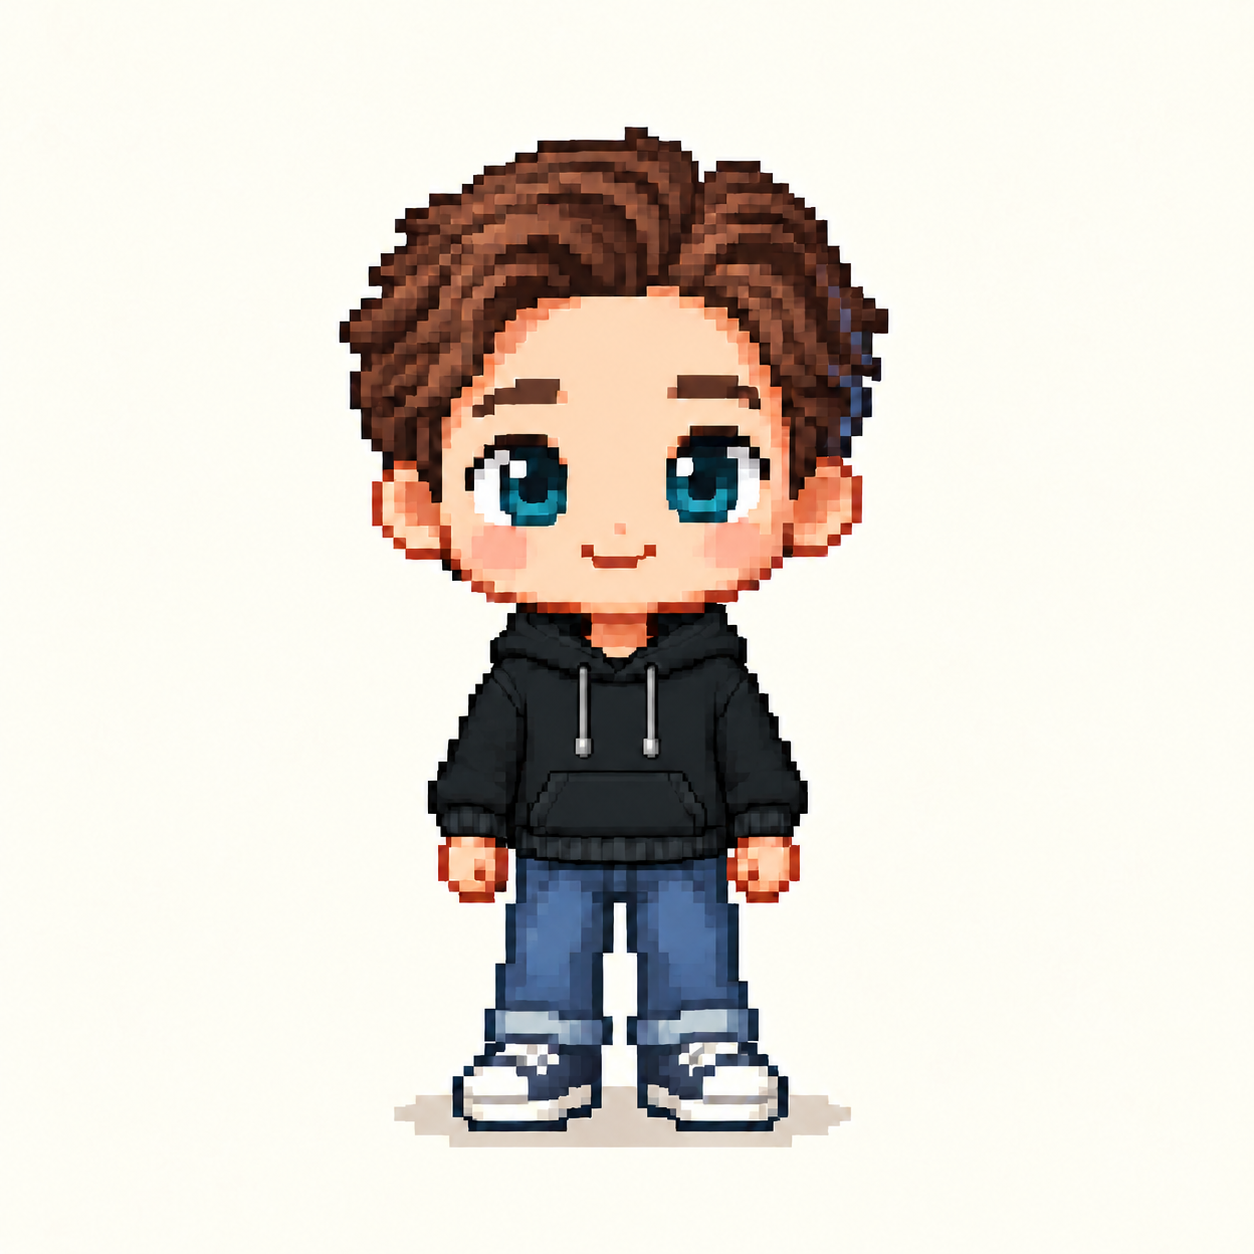
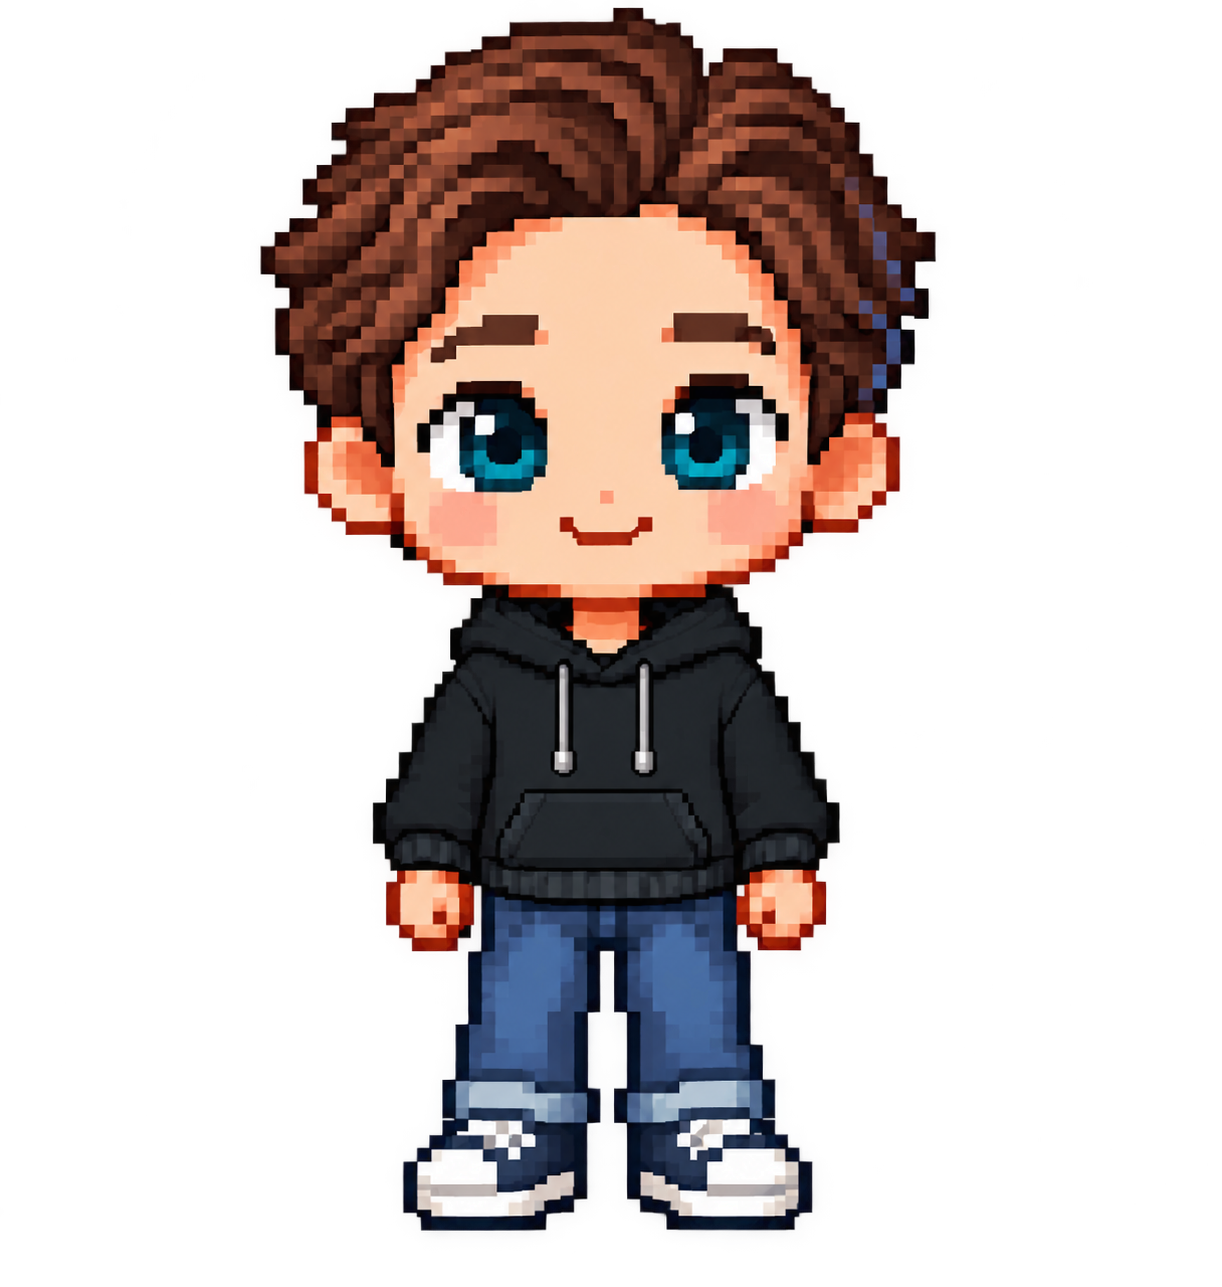
Update artwork and simplify project navigation

Changed region(s): [[0.1866, 0.0, 0.7774, 0.9641]]

diff --git a/components/Portfolio.tsx b/components/Portfolio.tsx
@@ -200,7 +200,7 @@ export function Portfolio() {
       surface.replaceChildren(rotor);
       const gap = innerWidth <= 560 ? 12 : 28;
       const width = innerWidth - gap * 2, height = innerHeight - gap * 2;
-      // Layout is set once. Every moving frame changes only transform.
+      // Set layout once; animate transforms only on synchronized layers.
       Object.assign(surface.style, {left:"0px", top:"0px", width:`${width}px`, height:`${height}px`});
       surface.style.setProperty("--tile-accent", getComputedStyle(source).getPropertyValue("--tile-accent"));
       surface.style.setProperty("--front-width", `${rect.width}px`);
@@ -218,7 +218,6 @@ export function Portfolio() {
         panel.current.style.visibility = "hidden";
       }
       const options: KeyframeAnimationOptions = {duration: target ? 680 : 620, easing:"linear", fill:"forwards"};
-      // Slightly overlap the phase boundaries so neither handoff comes to a stop.
       const movement = surface.animate(target ? [
         {transform:small, offset:0},
         {transform:small, offset:.24, easing:"cubic-bezier(.2,.65,.25,1)"},
@@ -240,7 +239,6 @@ export function Portfolio() {
       try {
         await Promise.all([movement.finished, rotation.finished]);
         setPage(target); opened.current = target;
-        // Keep the final animated face until React has painted the real panel/tile.
         await new Promise<void>(resolve => requestAnimationFrame(() => requestAnimationFrame(() => resolve())));
       } catch {
         setPage(target); opened.current = target;
@@ -275,7 +273,7 @@ export function Portfolio() {
     <div ref={hero} onAnimationEnd={event => { if (event.target === event.currentTarget && event.animationName === "water-reveal") { event.currentTarget.style.animation = "none"; event.currentTarget.style.clipPath = "none"; } }} className={`hero-surface ${revealed ? "is-revealed" : ""}`} inert={!revealed || !!page || busy}>
       <div className="bento-layout">
         <section className="focus-areas" aria-label="What I do">{focusAreas.map(area => <article className="focus-card" key={area.title}><PixelIcon name={`Icon_${area.icon}`}/><h2>{area.title}</h2><p>{area.text}</p></article>)}</section>
-        <div ref={photo} className="photo-tile"><img src="/chibi/phillip.png" alt="Temporary illustrated portrait of Phillip" className="portrait-image"/><div className="photo-caption"><span>PHILLIP</span><span>One pixel at a time.</span></div></div>
+        <div ref={photo} className="photo-tile"><img src="/chibi/phillip.png" alt="Pixel-art Phillip wearing a black hoodie" className="portrait-image"/><div className="photo-caption"><span>PHILLIP</span><span>One pixel at a time.</span></div></div>
         <nav className="portal-nav" aria-label="Explore my portfolio">{tabs.map((tab)=><button key={tab.id} disabled={busy} onClick={e=>{history.pushState(null,"",`#${tab.id}`);void transition(tab.id,e.currentTarget);}} className={`portal-button tile-${tab.id}`}>{tab.icon ? <PixelIcon name={tab.icon}/> : <span className="portal-glyph">{tab.glyph}</span>}<span className="portal-text"><strong>{tab.label}</strong><small>{tab.detail}</small></span></button>)}
         <div className={`portal-button tile-contact contact-card ${contactOpen ? "contact-open" : ""}`} onKeyDown={e=>{if(e.key==="Escape") {setContactOpen(false);e.currentTarget.querySelector("button")?.focus();}}}>
           <button className="contact-toggle" aria-expanded={contactOpen} aria-controls="contact-options" onClick={()=>setContactOpen(v=>!v)}><span className="contact-heading"><PixelIcon name="Icon_Contact"/><span className="portal-text"><strong>Contact</strong><small>Let’s connect</small></span></span></button>
@@ -285,9 +283,9 @@ export function Portfolio() {
     </div>
     <div ref={anchor} className={`character-anchor ${page ? "character-hidden" : ""}`}><Character key={introRun} forceMotion={forceMotion} ready={revealed} onSit={reveal}/></div>
     </div>
-    {revealed && !page && <Workstation animated={forceMotion && !busy}/> }
-    {revealed && !page && !busy && <div className="motion-controls"><button onClick={() => setForceMotion(v => !v)} aria-pressed={forceMotion}>Tile animations: {forceMotion ? "on" : "off"}</button><button onClick={replay}>Replay intro ↺</button></div>}
-    {!revealed && !page && !busy && <button className="skip-intro" onClick={reveal}>Skip intro ↗</button>}
+    {revealed && !page && <Workstation/> }
+    {revealed && !page && !busy && <div className="motion-controls"><button onClick={() => setForceMotion(v => !v)} aria-pressed={forceMotion}>Tile animations: {forceMotion ? "on" : "off"}</button><button onClick={replay}>Replay intro</button></div>}
+    {!revealed && !page && !busy && <button className="skip-intro" onClick={reveal}>Skip intro</button>}
     <div className="transition-surface" ref={overlay} aria-hidden="true" inert/>
     {page && <div ref={panel} className="destination" role="dialog" aria-modal="true" aria-label={tabs.find(t=>t.id===page)?.label} tabIndex={-1} onKeyDown={e=>{if(e.key==="Escape")close();
       if(e.key==="Tab") {

diff --git a/app/globals.css b/app/globals.css
@@ -334,7 +334,6 @@ h1,h2,h3,h4,.portal-text strong,.flip-back{font-family:var(--font-title);font-we
 .transition-surface .tile-icon,.transition-surface img{animation:none!important}
 .motion-enabled .topic-content.animate__animated{animation-duration:160ms!important}
 
-/* Transform-only transition layers: no resizing or glass sampling while moving. */
 .transition-surface{will-change:transform;transform-origin:0 0;transform-style:preserve-3d;perspective:1400px}
 .flip-rotor{position:absolute;inset:0;transform-style:preserve-3d;transform-origin:center;will-change:transform}
 .transition-surface .flip-front{width:var(--front-width)!important;height:var(--front-height)!important;transform:scale(var(--front-scale-x),var(--front-scale-y))!important;transform-origin:0 0;backface-visibility:hidden}
@@ -342,3 +341,9 @@ h1,h2,h3,h4,.portal-text strong,.flip-back{font-family:var(--font-title);font-we
 .transition-surface,.transition-surface *{backdrop-filter:none!important;-webkit-backdrop-filter:none!important;filter:none!important;animation:none!important;transition:none!important;box-shadow:none!important}
 .transition-surface .closing-snapshot{background:linear-gradient(140deg,#34364d,#243847);border-radius:24px}
 .motion-enabled .topic-content.animate__animated{animation:none!important}
+
+/* Static supplied artwork and category labels, retaining the existing grid. */
+.workstation>img{display:block;width:100%;height:auto;image-rendering:pixelated}
+.photo-tile{background:var(--glass-fill);backdrop-filter:blur(24px);-webkit-backdrop-filter:blur(24px)}
+.portrait-image{object-fit:contain;padding:24px 12px 65px}
+.project-category{display:inline-block;margin:24px 0 0;padding:5px 10px;border:1px solid #a9cfff40;border-radius:8px;color:#b8d9ff!important;font-size:12px;letter-spacing:.04em}

diff --git a/components/Workstation.tsx b/components/Workstation.tsx
@@ -1,19 +1,3 @@
-"use client";
-import { useEffect, useRef, useState } from "react";
-import { workstationFrames as frames, workstationSize } from "@/data/workstationFrames";
-const width = Math.max(...frames.map(f=>f[2]));
-const height = Math.max(...frames.map(f=>f[3]));
-export function Workstation({animated}: {animated: boolean}) {
-  const [frame,setFrame]=useState(0);
-  const holder=useRef<HTMLElement>(null);
-  useEffect(()=>{
-    if(!animated) {setFrame(0);return;}
-    let visible=true;
-    const observer=new IntersectionObserver(([entry])=>{visible=entry.isIntersecting;});
-    if(holder.current) observer.observe(holder.current);
-    const timer=window.setInterval(()=>{if(visible && !document.hidden) setFrame(f=>(f+1)%frames.length);},280);
-    return ()=>{window.clearInterval(timer);observer.disconnect();};
-  },[animated]);
-  const f=frames[frame];
-  return <figure ref={holder} className="workstation" aria-label="Animated pixel-art workstation with three monitors"><svg viewBox={`0 0 ${width} ${height}`} role="img" aria-label="Linux, Windows and Omarchy workstation"><svg x={(width-f[2])/2} y={height-f[3]} width={f[2]} height={f[3]} viewBox={f.join(" ")} overflow="hidden"><image href="/pixel/workstation-loop.png" width={workstationSize[0]} height={workstationSize[1]}/></svg></svg></figure>;
+export function Workstation() {
+  return <figure className="workstation"><img src="/pixel/workstation.png" width={1536} height={1024} loading="lazy" decoding="async" alt="Pixel-art workstation with three monitors, a white desk and a black chair"/></figure>;
 }

diff --git a/data/site.ts b/data/site.ts
@@ -26,6 +26,7 @@ export const site = {
     {
       number: "01",
       title: "Portfolio Playground",
+      category: "Development",
       description:
         "A personal space where modern UI meets small pixel-art details, playful motion and a strong responsive layout.",
       tags: ["Next.js", "TypeScript", "Tailwind"],
@@ -35,6 +36,7 @@ export const site = {
     {
       number: "02",
       title: "omachi-pet",
+      category: "Playground",
       description:
         "Explore the source code and project documentation on GitHub.",
       tags: ["GitHub"],
@@ -44,6 +46,7 @@ export const site = {
     {
       number: "03",
       title: "Experiment slot",
+      category: "Playground",
       description:
         "A place for something fun: a small app, animation experiment, game-like interaction or anything that shows your personality.",
       tags: ["Creative Dev", "Web"],

diff --git a/components/Projects.tsx b/components/Projects.tsx
@@ -48,7 +48,8 @@ export function Projects() {
                       {project.status}
                     </span>
                   </div>
-                  <h3 className="mt-7 text-3xl font-semibold tracking-[-0.035em] text-white sm:text-4xl">
+                  <p className="project-category">{project.category}</p>
+                  <h3 className="mt-3 text-3xl font-semibold tracking-[-0.035em] text-white sm:text-4xl">
                     {project.title}
                   </h3>
                   <p className="mt-4 max-w-xl leading-7 text-white/48">{project.description}</p>

diff --git a/README.md b/README.md
@@ -88,6 +88,6 @@ Both original CV PDFs are now bundled in `public/cv`, with working English and G
 ## Continuous transition timing
 Opening uses one 660ms timeline (200ms flip, 460ms expansion); closing uses 620ms (420ms shrinking, 200ms flip). The phases share a boundary with no delay. The final content entrance lasts 160ms. GitHub now points to lisboaphe and omachi-pet is linked from Projects. Its detailed description awaits README content.
 
-## Transform-based transition update
+## Static transparent artwork
 
-The tile overlay now sets dimensions once and animates only transforms on two synchronized layers. Rotation and scaling overlap at the phase boundaries; all blur, filters and nested animation are disabled on the moving copy. Content remains covered until React has painted the destination. Opening is 680ms and closing is 620ms. Current layout is unchanged. Both email links use lisboaphe@gmail.com. Project links say “Open project” without an arrow. TypeScript and transition logic checks pass; the latest production build could not run in the execution environment due to `uv_resident_set_memory` (ENOENT). Live visual/performance verification is still required.
+The supplied transparent hoodie character is displayed over the portrait tile's glass background. The centered workstation is now the supplied static PNG, with no timers or frame switching. Skip intro and Replay intro are text-only. Projects still opens directly to the full list with Development and Playground labels, without a category menu. Email and transform-based tile transitions remain enabled. TypeScript and interaction checks pass; local production build remains blocked by the environment's uv_resident_set_memory error.
